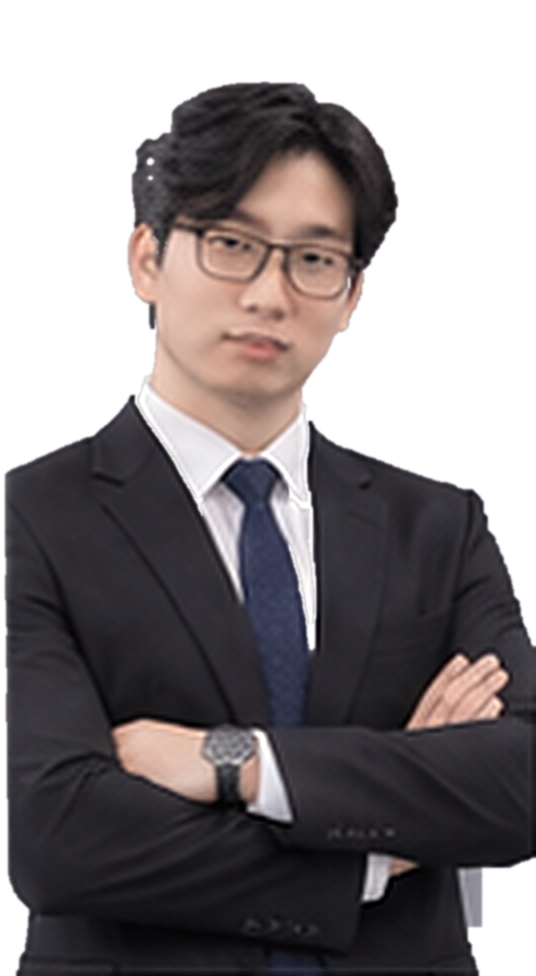
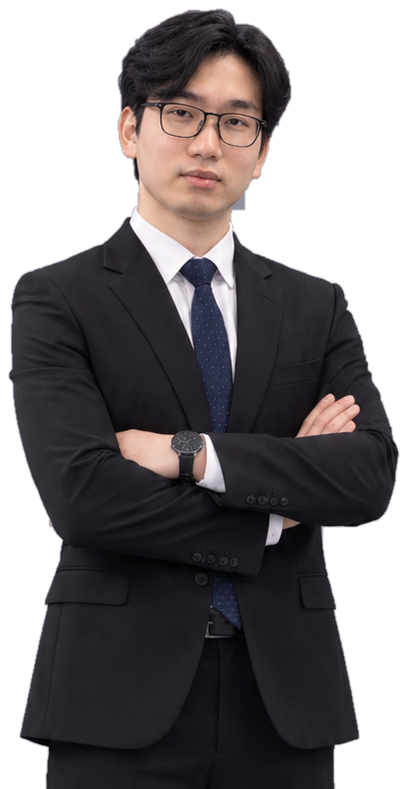
Bia: chan dung khoanh tay ban net (anh goc anh Huy)
Claude-Session: https://claude.ai/code/session_01HdwfrC464x83xNtDevUcBX

diff --git a/_video/bia.py b/_video/bia.py
@@ -104,11 +104,11 @@ def make(sc, meta=None, ph=None, out=None):
     d.rectangle([0, 0, 14, H], fill=VANG)
     CK = os.path.join(HERE, "engine", "chu_kenh.png")
     if os.path.exists(CK):  # chân dung tách nền, nhỏ vừa ở góc phải dưới (anh Huy 5/11 23:41), nền là ảnh minh hoạ
-        pt = Image.open(CK).convert("RGBA"); ph_ = 540; pt = pt.resize((int(pt.width*ph_/pt.height), ph_), Image.LANCZOS)
+        pt = Image.open(CK).convert("RGBA"); ph_ = 600; pt = pt.resize((int(pt.width*ph_/pt.height), ph_), Image.LANCZOS)
         a_ = pt.getchannel("A"); rm = Image.new("L", pt.size, 255)
         for x in range(70): ImageDraw.Draw(rm).line([(x, 0), (x, pt.height)], fill=int(255*x/70))
-        from PIL import ImageChops; pt = _sticker(pt); pt.putalpha(ImageChops.multiply(pt.getchannel("A"), rm))
-        px_ = W - pt.width + 6
+        pt = _sticker(pt)  # ảnh gốc nét, đủ 2 vai -> không làm mờ mép
+        px_ = W - pt.width - 24
         gl = Image.new("L", (W, H)); ImageDraw.Draw(gl).ellipse([px_+30, H-ph_-20, px_+pt.width, H+150], fill=170)
         gl = gl.filter(ImageFilter.GaussianBlur(50)); im.paste(Image.new("RGB", (W, H), (20, 10, 34)), (0, 0), gl)
         im.paste(pt, (px_, H - ph_), pt); d = ImageDraw.Draw(im)
